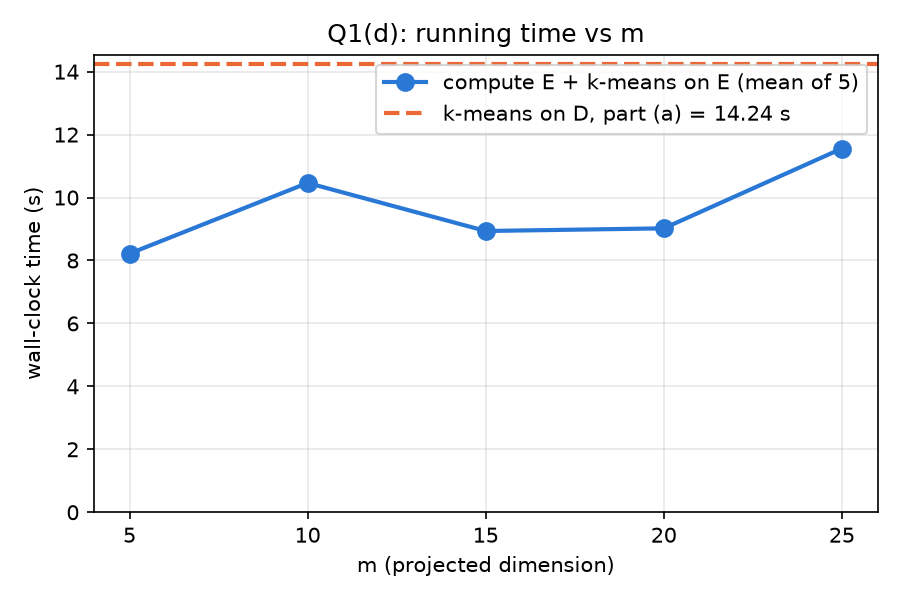
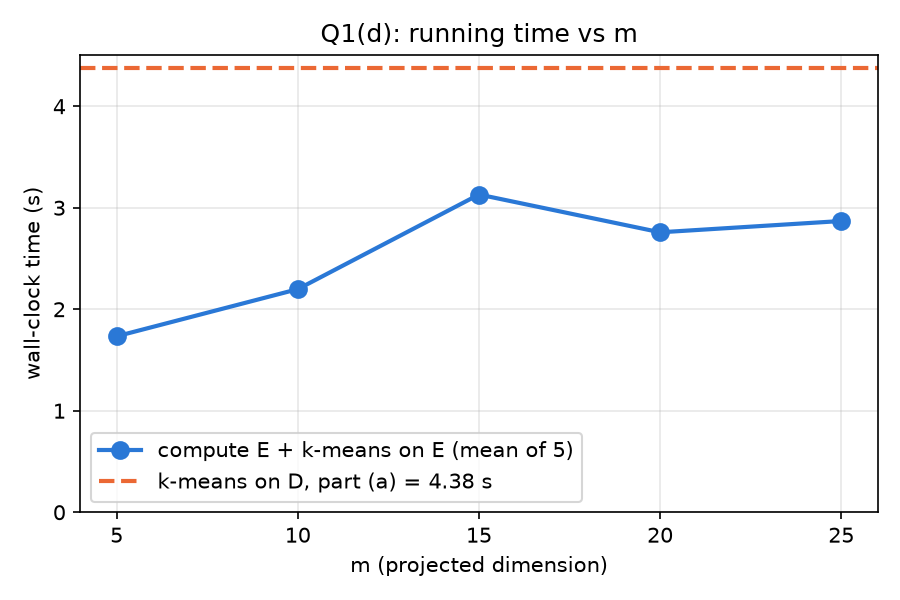
Final Q1 run: updated timings

diff --git a/q1.py b/q1.py
@@ -35,8 +35,8 @@ D, y, cols, dropped = load_data()
 n, d = D.shape
 print("n =", n, " d =", d)
 
-# small warm-up run so that the first timing does not include library start-up
-KMeans(n_clusters=k, n_init=1, random_state=0).fit(D[:20000])
+# small warm-up run (result not used) so that the first timing does not include library start-up
+KMeans(n_clusters=k, n_init=5, random_state=0).fit(D[:20000])
 
 
 # ---------------- (a) k-means on D ----------------
@@ -170,7 +170,7 @@ for m in m_list:
 
     # (ii) 20 draws of A, ratio of the cost of the same clusters C_D
     ratios = []
-    for t in range(20):
+    for draw in range(20):
         A = rng.normal(0, 1 / np.sqrt(m), size=(m, d))
         E = D @ A.T
         mu_E = get_centres(E, labels_D, k)
